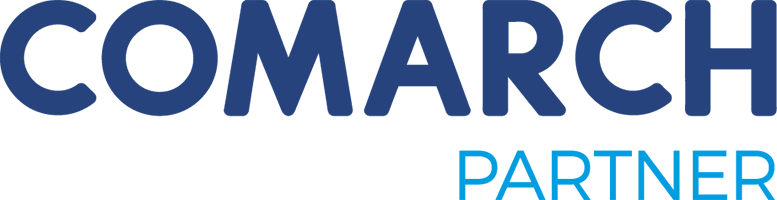
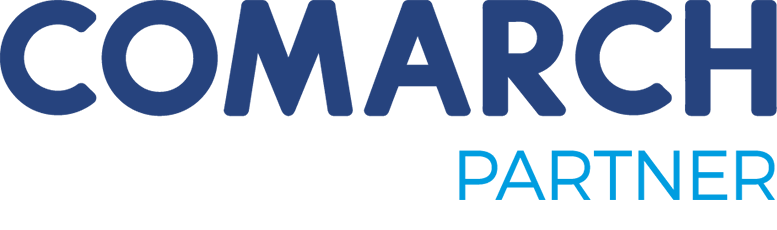
zmiana loga

diff --git a/_site/index.html b/_site/index.html
@@ -519,7 +519,7 @@
 
           
             <div class="archive__item-excerpt">
-              <p>Wśród firm wdrożeniowych krąży stare porzekadło: <br /><br /><b><i>“Nie ma złych systemów ERP, są tylko lepiej lub gorzej wdrożone”</i></b>. <br /><br />Jeżeli masz problem z aktualną obsługą systemu, potrzebujesz pomocy przy wdrożeniu lub usprawnieniu procesów w Twojej firmie skontaktuj się z Nami. <br /><br />Jesteśmy certyfikowanym partnerem Comarch.</p>
+              <p>Wśród firm wdrożeniowych krąży stare porzekadło: <br /><br /><b><i>“Nie ma złych systemów ERP, są tylko lepiej lub gorzej wdrożone”</i></b>. <br /><br />Jeżeli masz problem z aktualną obsługą systemu, potrzebujesz pomocy przy wdrożeniu lub usprawnieniu procesów w Twojej firmie skontaktuj się z Nami. <br /><br />Jesteśmy partnerem Comarch.</p>
 
             </div>
           
@@ -533,7 +533,7 @@
       <div class="archive__item">
         
           <div class="archive__item-teaser">
-            <img src="/assets/images/certificate_partner.png" alt="Potwierdzona aktualnymi certyfikatami znajomość systemów Comarch ERP" width="" height="" />
+            <img src="/assets/images/partner.png" alt="Potwierdzona aktualnymi certyfikatami znajomość systemów Comarch ERP" width="180" height="120" />
             
           </div>
         

diff --git a/_pages/splash-page.md b/_pages/splash-page.md
@@ -10,6 +10,8 @@ intro:
               <br><br>Jeżeli masz problem z aktualną obsługą systemu, potrzebujesz pomocy przy wdrożeniu lub usprawnieniu procesów w Twojej firmie skontaktuj się z Nami.
               <br><br>Jesteśmy partnerem Comarch.'
   - image_path: assets/images/partner.png
+    image_w: 180
+    image_h: 120
     alt: "Potwierdzona aktualnymi certyfikatami znajomość systemów Comarch ERP"
 
 feature_row:
